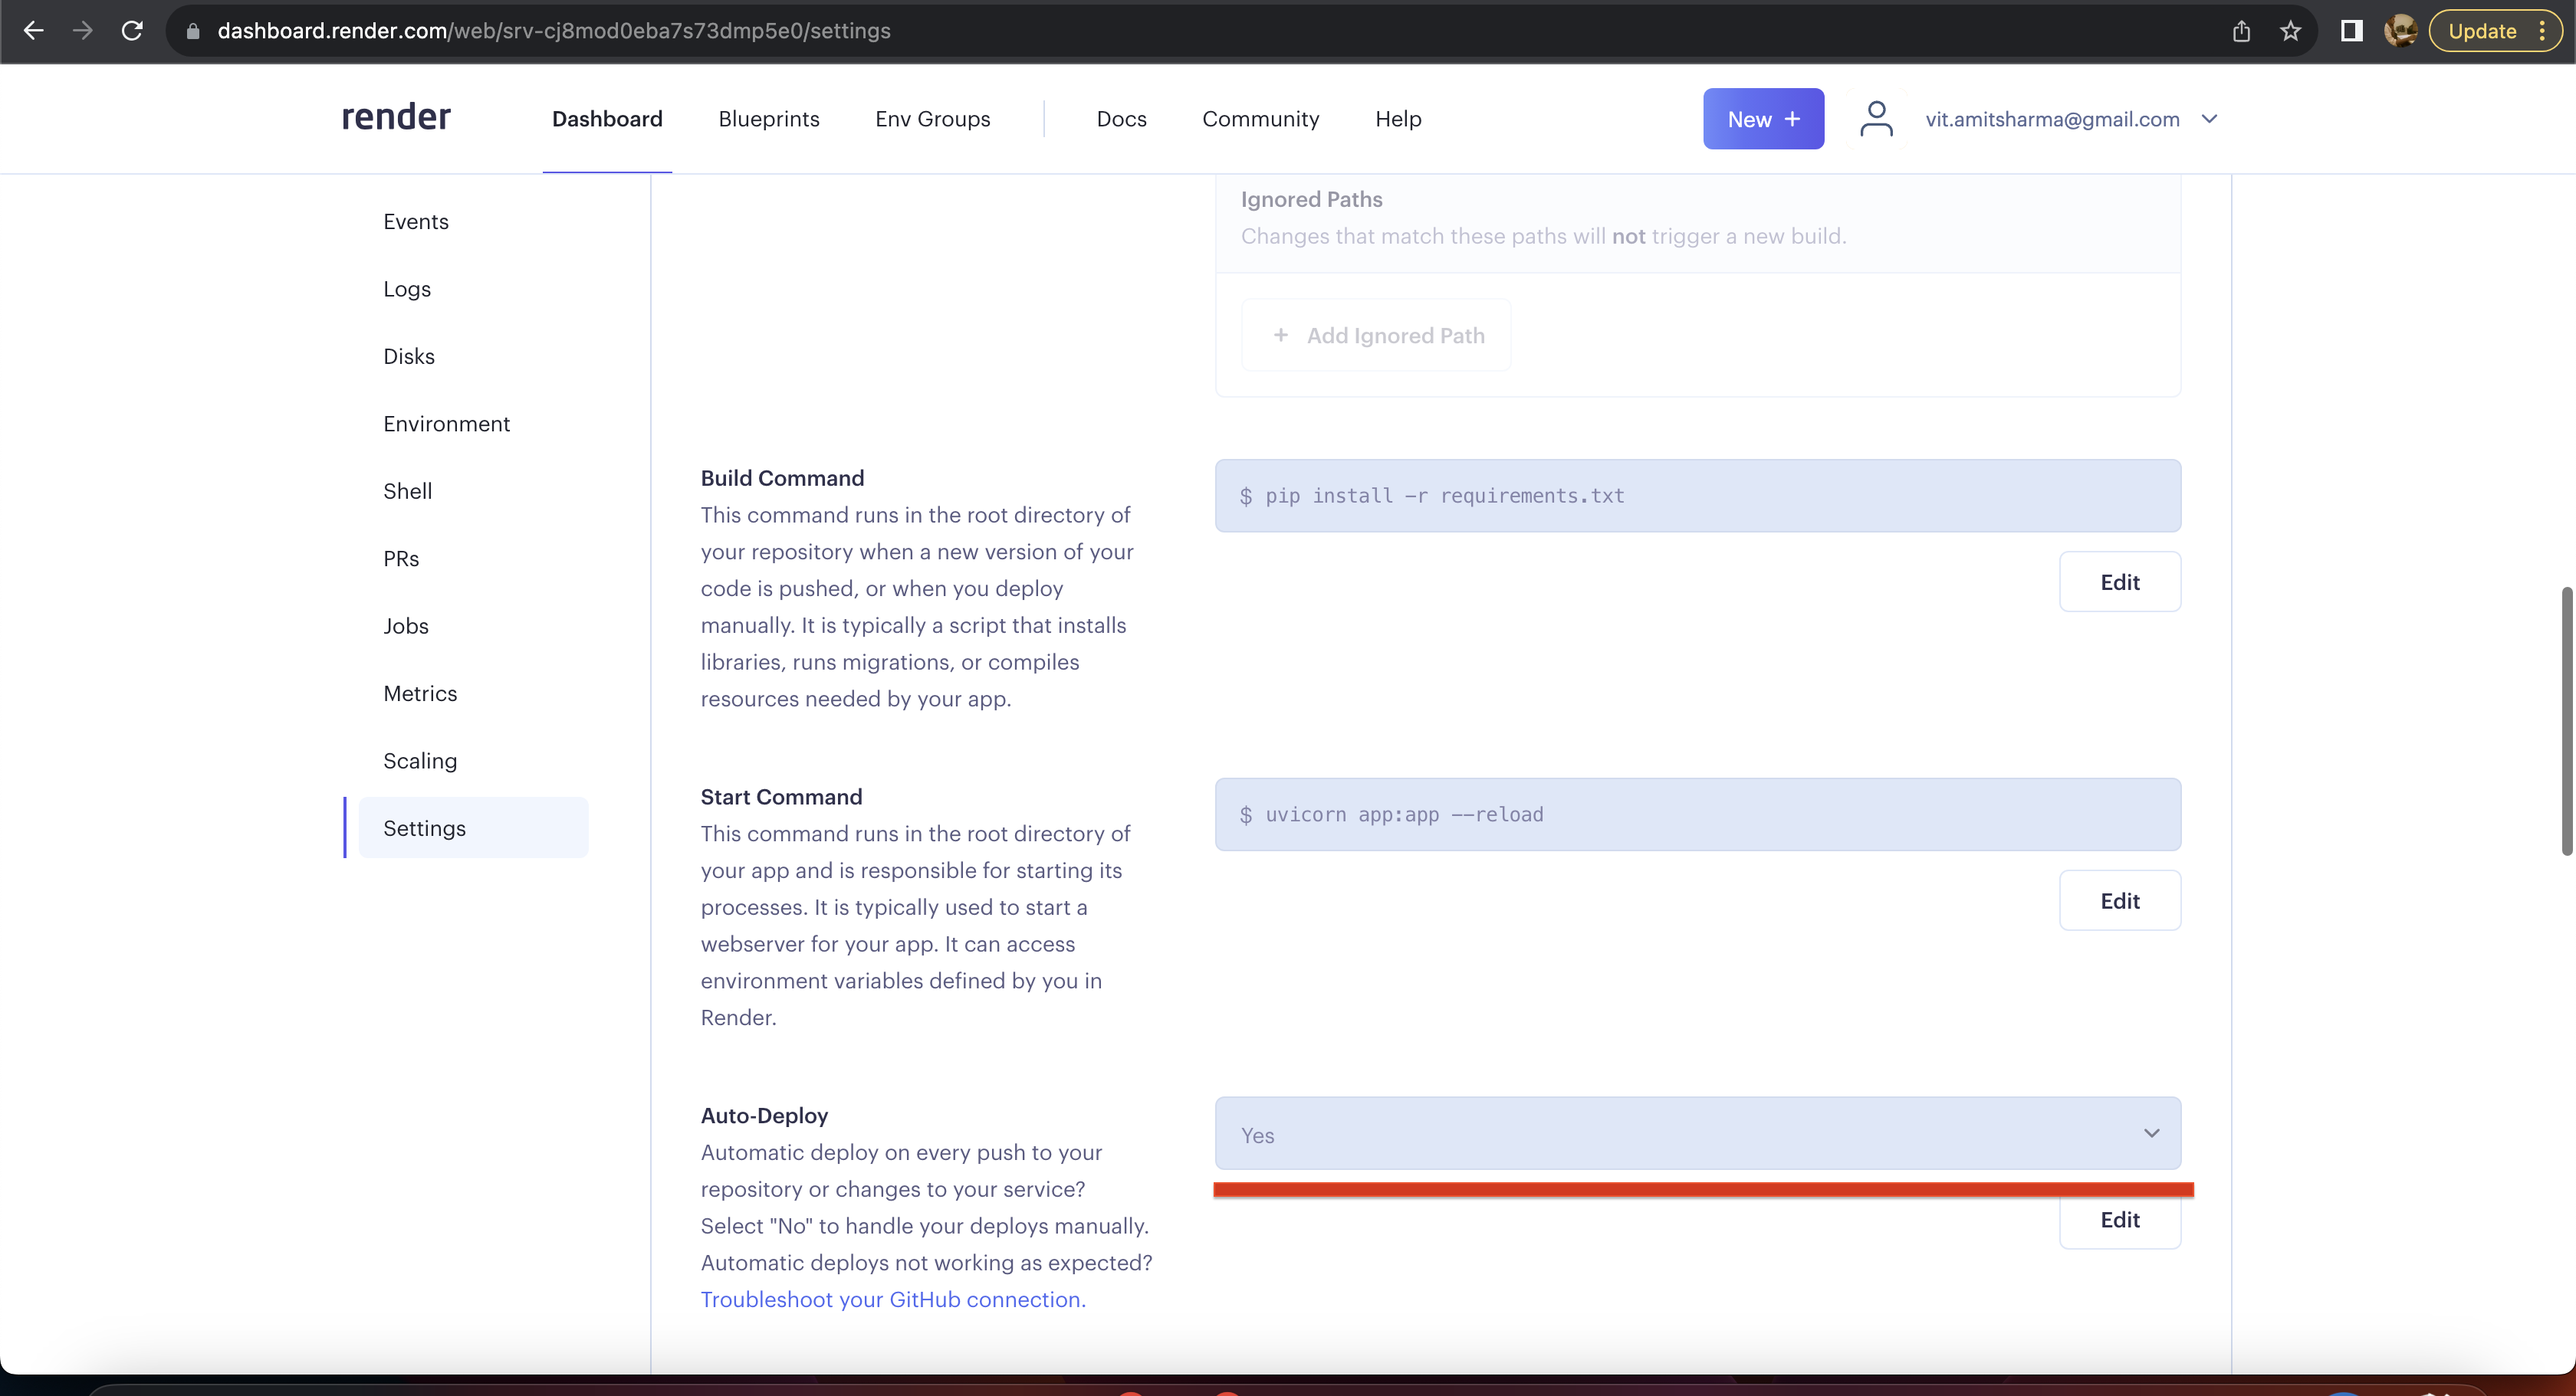
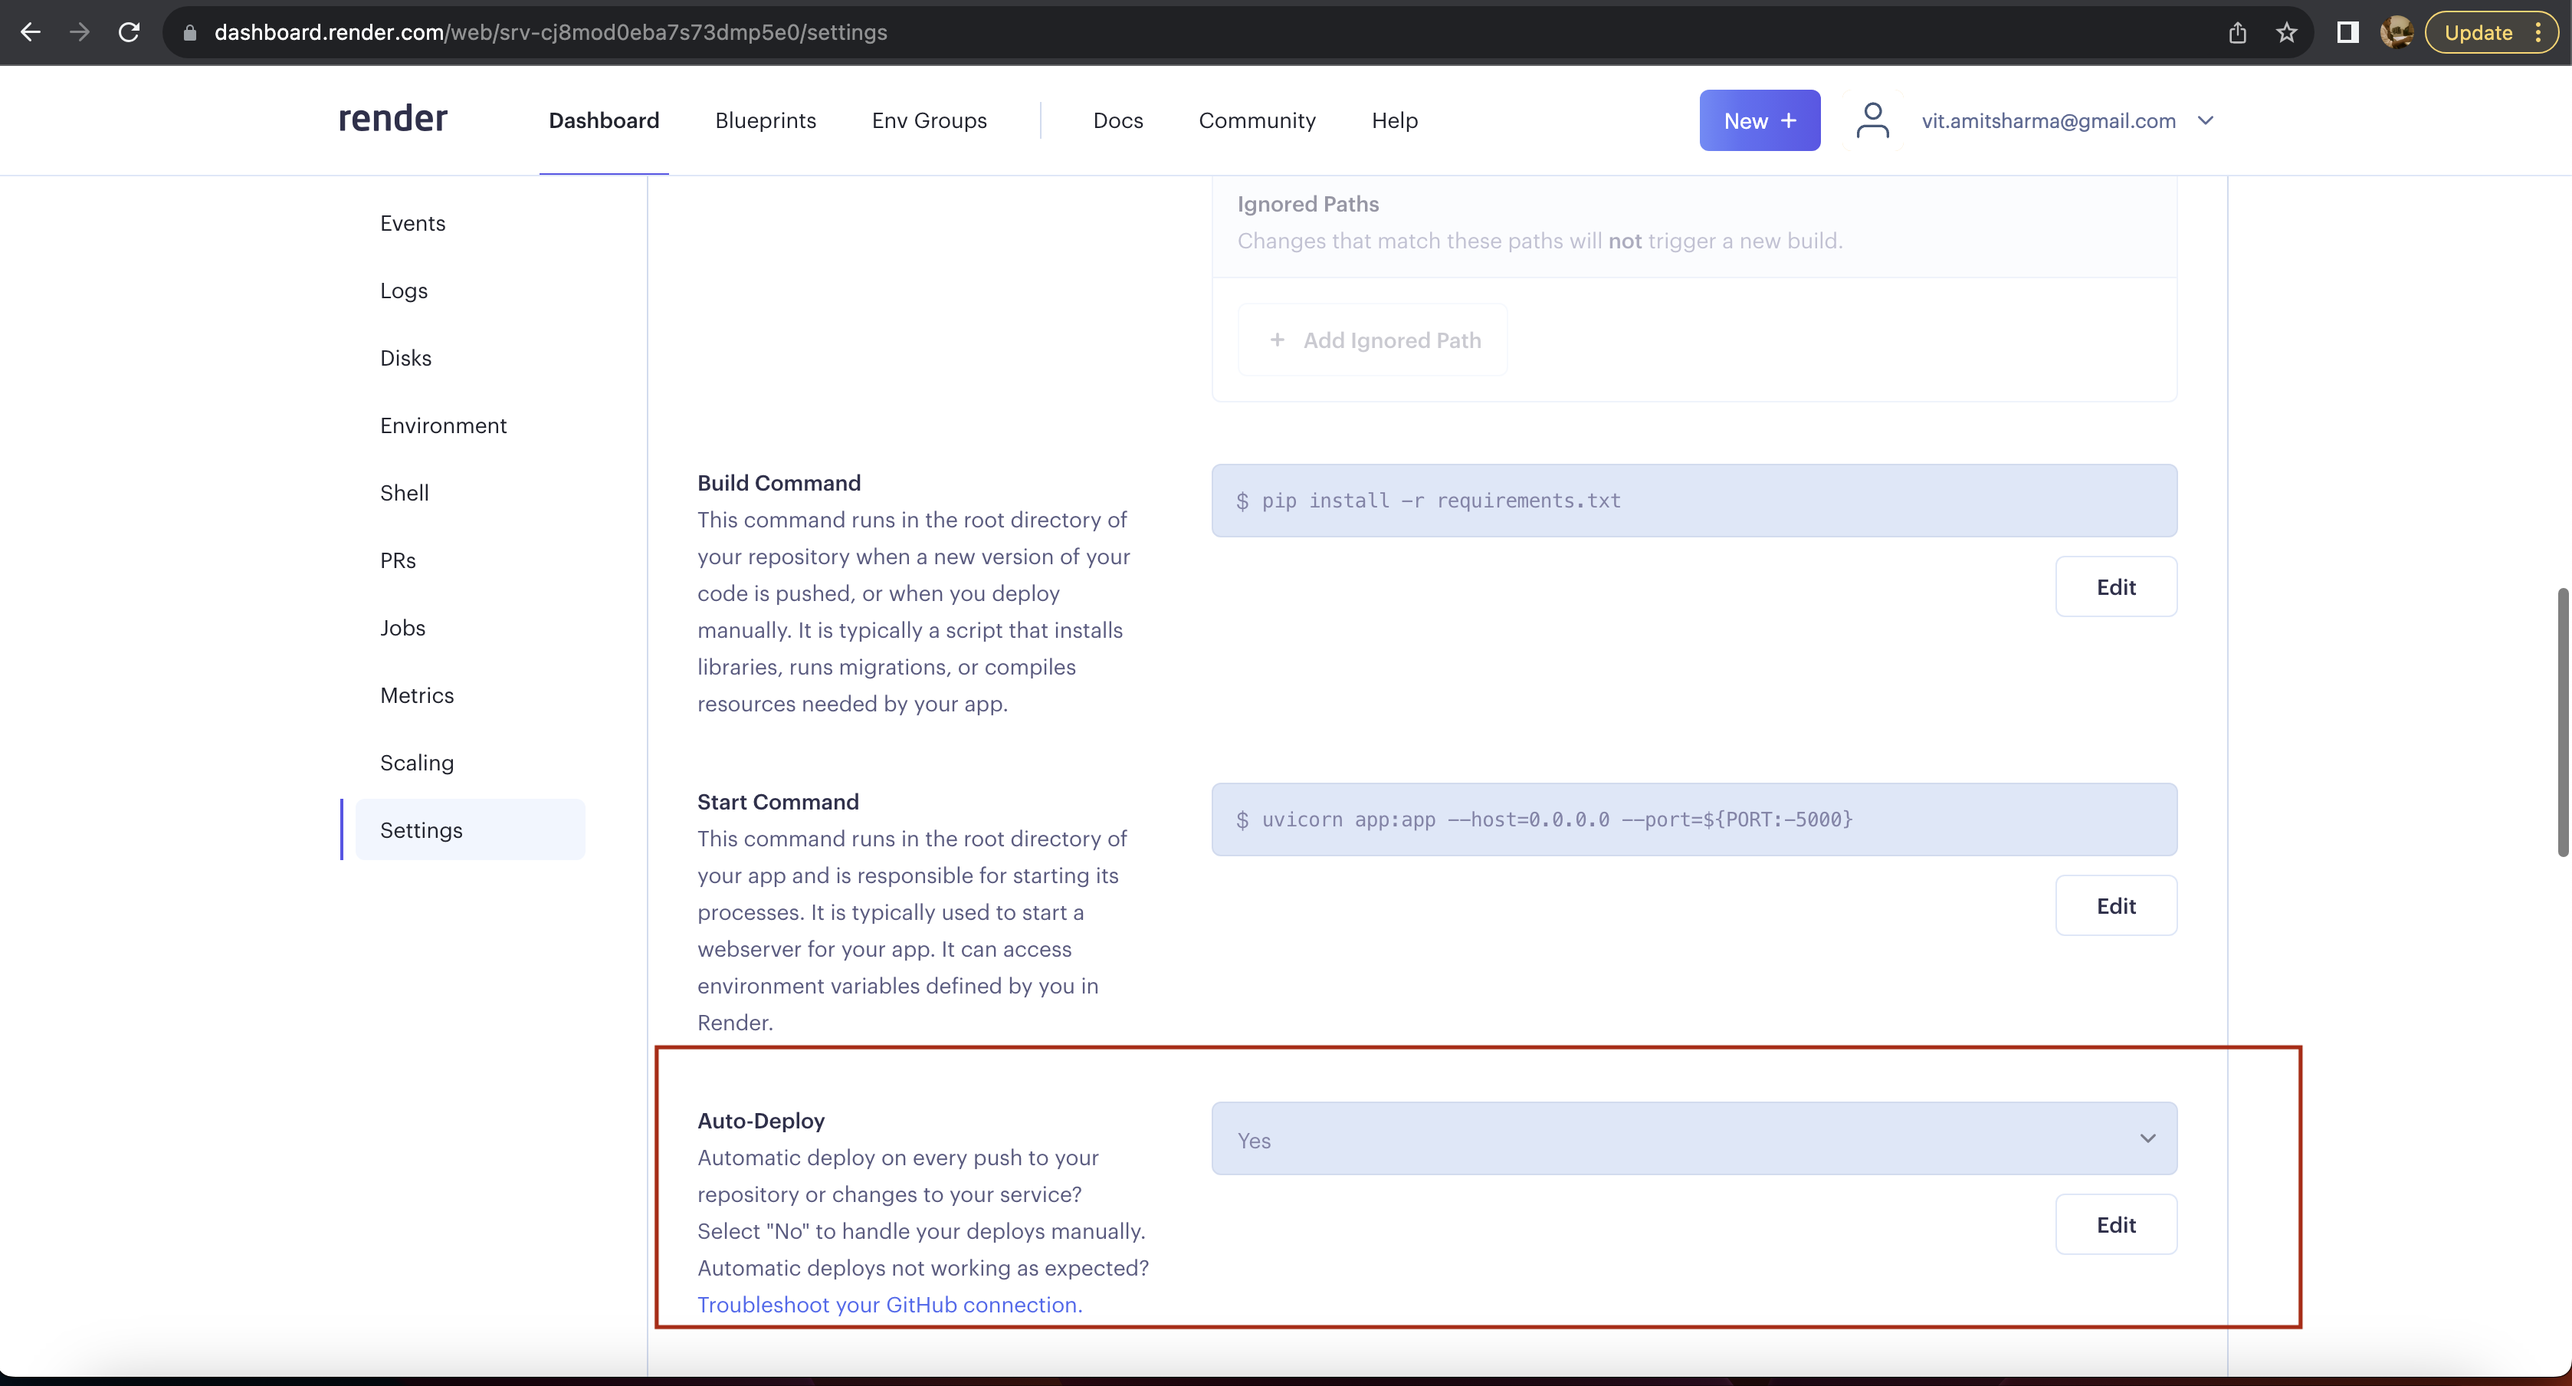
updating results

diff --git a/live_post.py b/live_post.py
@@ -1,0 +1,33 @@
+import requests
+
+# URL of your FastAPI app
+url = "https://project3-census-income.onrender.com/predict"
+
+# Sample data for the request
+data = {
+    "age": 32,
+    "workclass": "Private",
+    "fnlgt": 205019,
+    "education": "Assoc-acdm",
+    "education_num": 12,
+    "marital_status": "Never-married",
+    "occupation": "Sales",
+    "relationship": "Not-in-family",
+    "race": "Black",
+    "sex": "Male",
+    "capital_gain": 0,
+    "capital_loss": 0,
+    "hours_per_week": 50,
+    "native_country": "United-States"
+}
+
+# Make the POST request
+response = requests.post(url, json=data)
+
+# Get the status code and response content
+status_code = response.status_code
+result = response.json()
+
+# Print the result and status code
+print("Status Code:", status_code)
+print("Result:", result)

diff --git a/README.md b/README.md
@@ -65,11 +65,12 @@ To use your new S3 bucket from the AWS CLI you will need to create an IAM user w
 
 ## API Deployment
 
-* Create a free Heroku account (for the next steps you can either use the web GUI or download the Heroku CLI).
-* Create a new app and have it deployed from your GitHub repository.
-   * Enable automatic deployments that only deploy if your continuous integration passes.
-   * Hint: think about how paths will differ in your local environment vs. on Heroku.
-   * Hint: development in Python is fast! But how fast you can iterate slows down if you rely on your CI/CD to fail before fixing an issue. I like to run flake8 locally before I commit changes.
-* Set up DVC on Heroku using the instructions contained in the starter directory.
-* Set up access to AWS on Heroku, if using the CLI: `heroku config:set AWS_ACCESS_KEY_ID=xxx AWS_SECRET_ACCESS_KEY=yyy`
-* Write a script that uses the requests module to do one POST on your live API.
+* Sign up for an account on Render: Go to https://render.com/ and sign up for a free account if you don't have one already.
+* Create a New Web Service: Once you have signed in to your Render account, click on "Create a new web service" to get started.
+* Choose a Repository: Select the repository that contains your project code. Render will automatically detect the language and framework used in your project.
+* Configure the Service: Configure the web service settings according to your project requirements. This will include choosing a name for the service, selecting a branch to deploy, and specifying the build command and port to run your application.
+* Deploy Your Project: Click on "Create Web Service" to start the deployment process. Render will automatically build and deploy your project.
+* Access Your App: Once the deployment is complete, Render will provide you with a URL where your app is accessible.
+* Verify Your App: Visit the provided URL in your web browser to verify that your app is running correctly.
+* Continuous Deployment: Render supports continuous deployment, which means that every time you push changes to your project's repository, Render will automatically build and deploy the latest version of your app.
+* Custom Domains (Optional): If you want to use a custom domain for your app, you can configure it in the Render dashboard.
